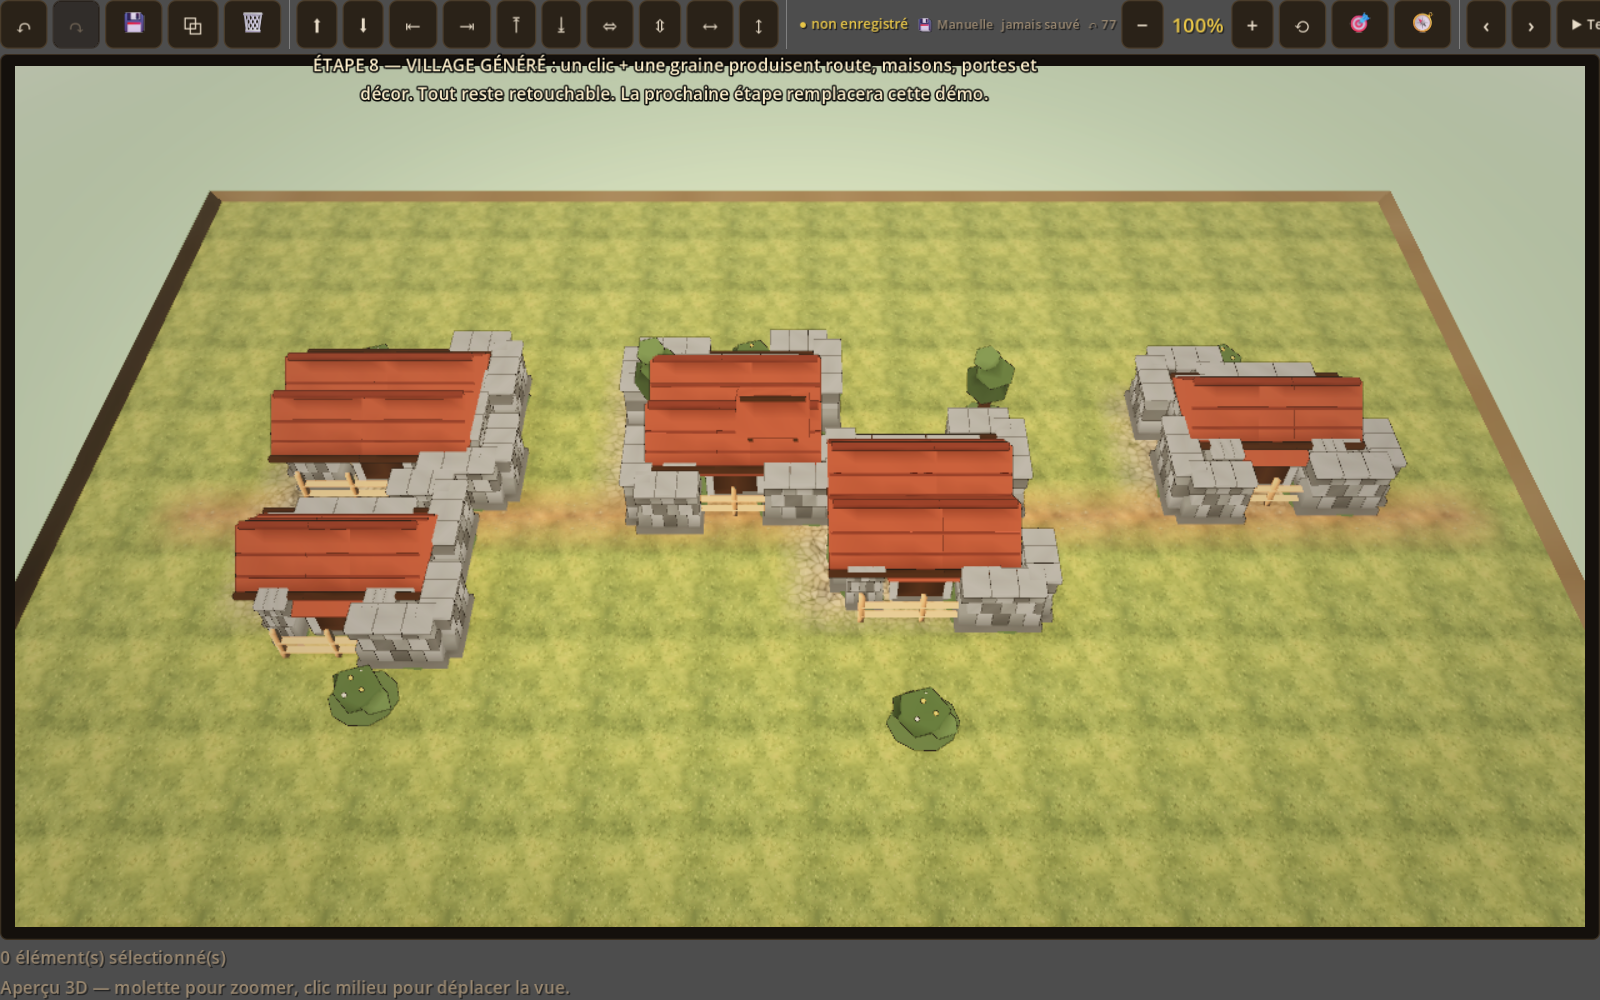
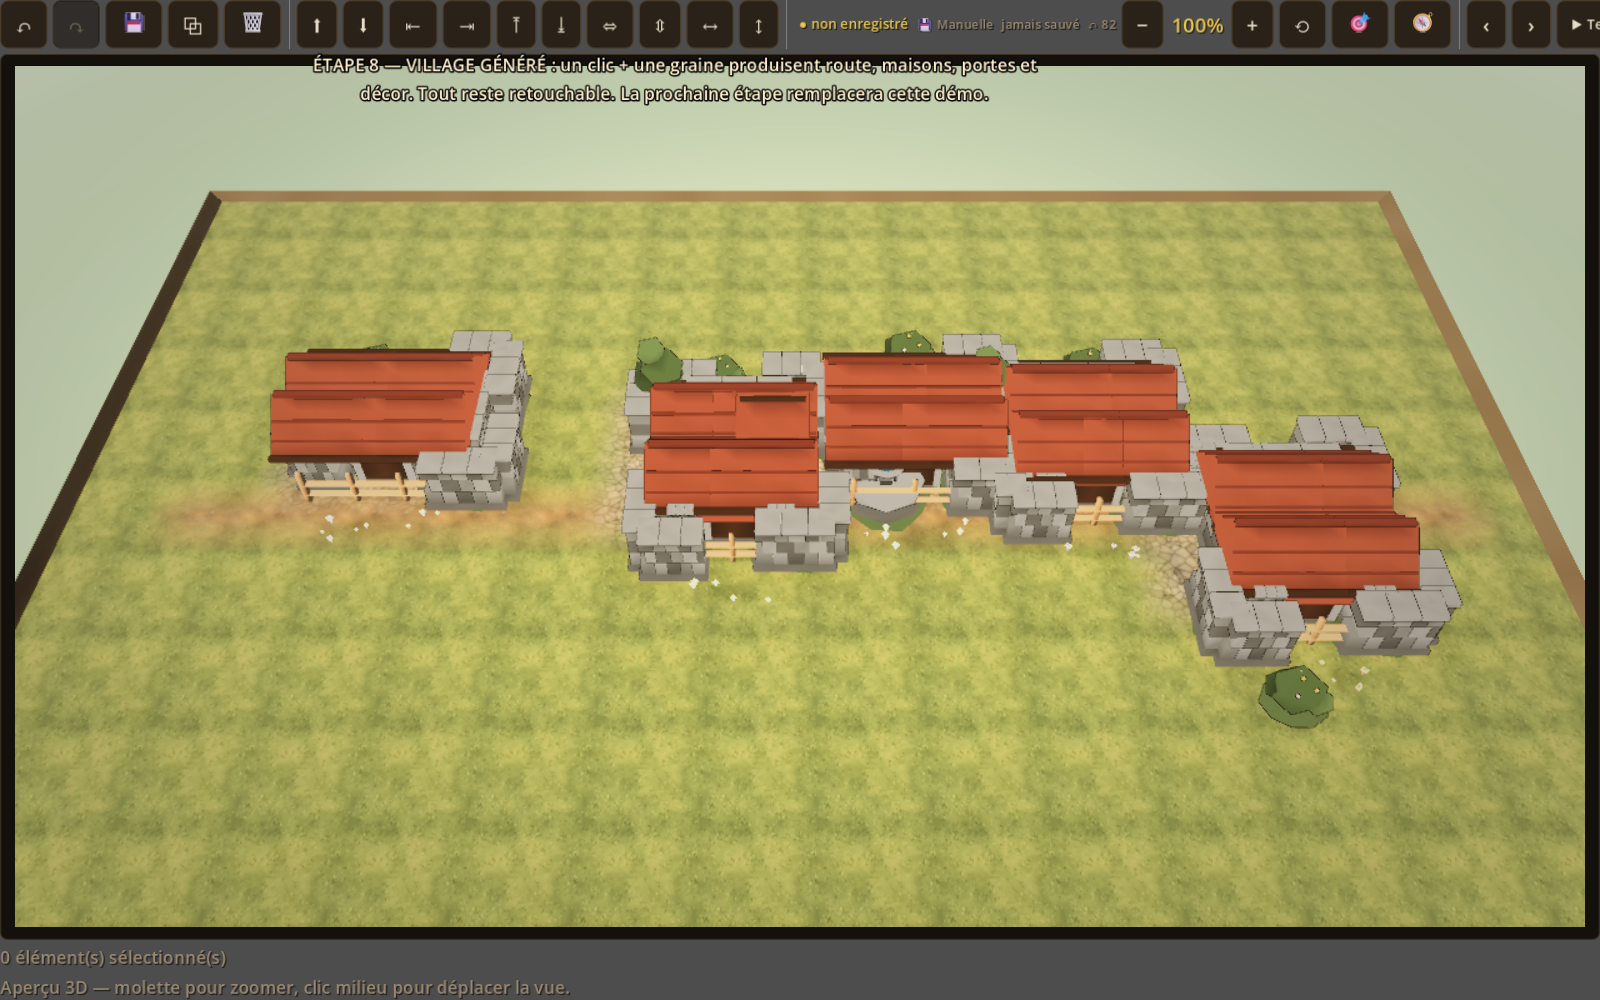
feat(scene): zones fleuries devant les maisons generees

Changed region(s): [[0.375, 0.31, 0.9375, 0.744], [0.125, 0.465, 0.3125, 0.744], [0.5312, 0.682, 0.625, 0.775]]

diff --git a/docs/PLAN_PROCEDURAL.md b/docs/PLAN_PROCEDURAL.md
@@ -175,9 +175,9 @@ l'étape suivante, et une capture archivée dans `docs/screenshots/`.
 - Critère : village généré puis retouché rapidement.
 - v2 : place centrale avec puits/fontaine, clôtures, arbres, chemins ;
   **tentes, feu de camp, tonneaux, bannière et charrette procéduraux** pour le
-  camp, **clôtures procédurales** devant les maisons, **clairière + chemin** pour
-  la forêt ; `ProceduralSceneGenerator`, outil « Générer scène », test
-  d'application réelle, démo et capture.
+  camp, **clôtures procédurales** devant les maisons, **zones fleuries** devant
+  les maisons, **clairière + chemin** pour la forêt ; `ProceduralSceneGenerator`,
+  outil « Générer scène », test d'application réelle, démo et capture.
 
 ## Étape 9 — Rendu Tiny Glade
 - Ciel, lumière, GI, brume, matériaux, végétation.
